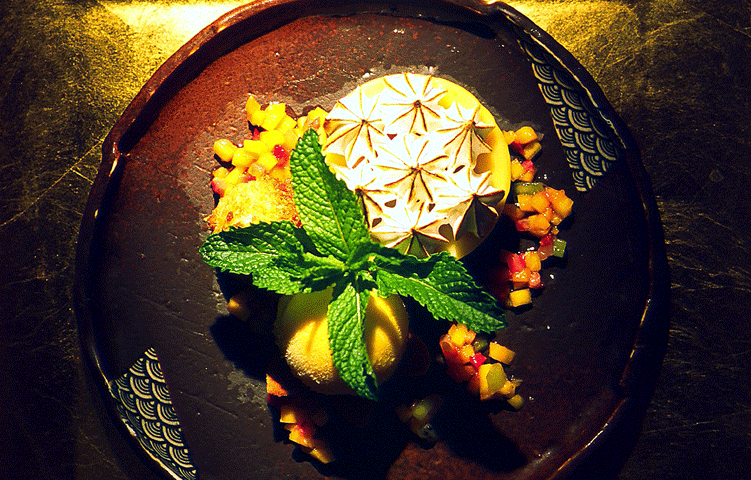
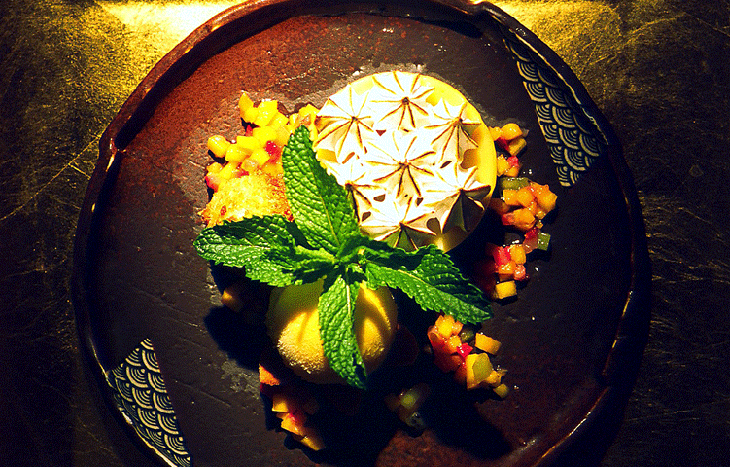
Adds Skim's changes to mine, adds some changes to about page, new image size for slideshow

diff --git a/about.html b/about.html
@@ -7,7 +7,7 @@ title: Mako Catering
   <div id="bio-chef-mako">
     <h2>Chef Mako</h2>
     <img src="" />
-    <a id="bio-lisa-brady" href="">Lisa Brady Bio</a>
+    <!-- <a id="bio-lisa-brady" href="">Lisa Brady Bio</a> -->
     <p>
       As one of the country's most respected Asian chefs, Makoto "Mako" Tanaka is living his dream as the Executive Chef of his
       own restaurant, Mako, in Beverly Hills.  An innovator in Asian-style cuisine, the superstar chef describes his cooking
@@ -36,7 +36,7 @@ title: Mako Catering
   <div id="bio-lisa-brady">
     <h2>Lisa Brady</h2>
     <img src="" />
-    <a id="bio-chef-mako" href="">Chef Mako Bio</a>
+    <!-- <a id="bio-chef-mako" href="">Chef Mako Bio</a> -->
     <p>
       After 16 years of working with Wolfgang Puck in the restaurant business, Lisa Brady has joined forces with Makoto
       Tanaka, to open Mako in Beverly Hills.  While Tanaka mans the kitchen, Brady is in charge of making sure the front of

diff --git a/_includes/aside.html b/_includes/aside.html
@@ -1,17 +1,17 @@
 <nav>
-  <h1>Mako<span class="catering">Catering</span></h1>
+  <h1><a href="/">Mako<span class="catering">Catering</span></a></h1>
   <ul class="aside">
     <li>
-      <a href="#">Services</a>
+      <a href="">Services</a>
     </li>
     <li>
-      <a href="#">Clients</a>
+      <a href="">Clients</a>
     </li>
     <li>
-      <a href="#">About</a>
+      <a href="about.html">About</a>
     </li>
     <li>
-      <a href="#">Contact</a>
+      <a href="">Contact</a>
     </li>
   </ul>
 </nav>
